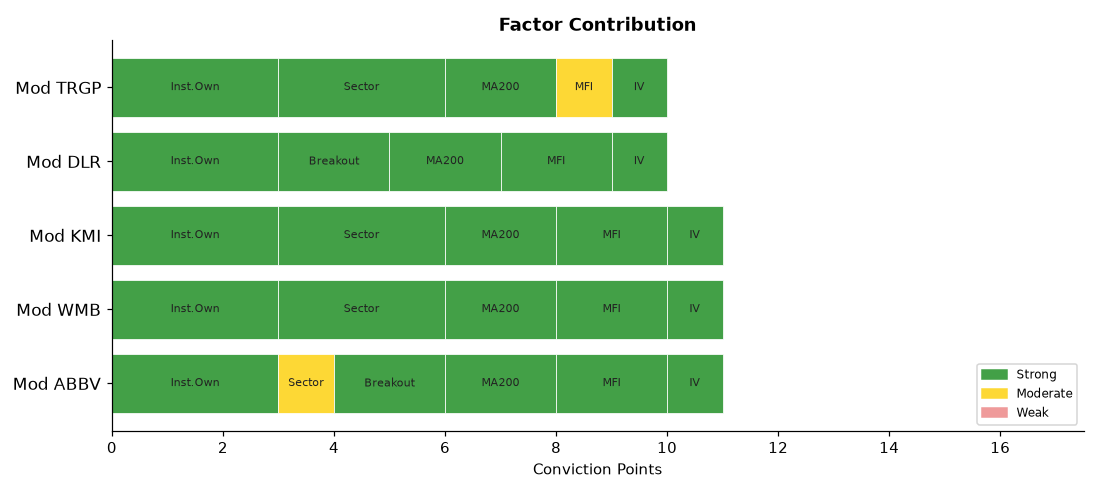
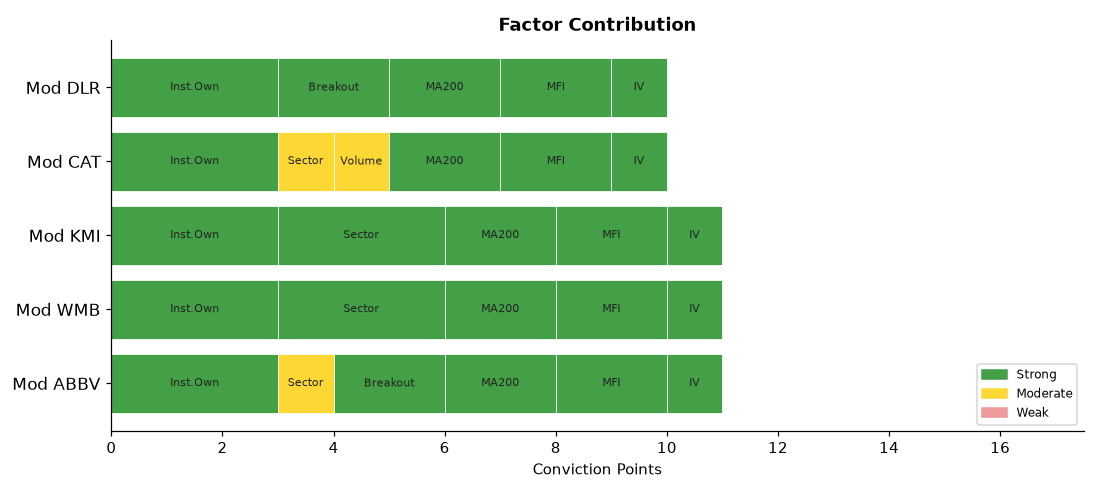
deploy: b7fadf5b06deb90e7ebb92f278722414bdd9750d

diff --git a/index.html b/index.html
@@ -4,7 +4,7 @@
   <meta charset="UTF-8">
   <meta name="viewport" content="width=device-width,initial-scale=1">
   <meta http-equiv="Cache-Control" content="no-cache,no-store,must-revalidate">
-  <title>Stock Breakout Screener — 2026-06-22 20:10</title>
+  <title>Stock Breakout Screener — 2026-06-22 21:29</title>
   <style>
     *{box-sizing:border-box;margin:0;padding:0}
     body{font-family:'Segoe UI',Arial,sans-serif;background:#f0f2f5;
@@ -34,7 +34,7 @@
 
 <div class="hdr">
   <h1>📈 Stock Breakout Screener</h1>
-  <p>Updated: 2026-06-22 20:10 UTC &nbsp;·&nbsp; Phase: After-Hours (4:00–8:00 PM ET) &nbsp;·&nbsp;
+  <p>Updated: 2026-06-22 21:29 UTC &nbsp;·&nbsp; Phase: After-Hours (4:00–8:00 PM ET) &nbsp;·&nbsp;
      129 stocks screened &nbsp;·&nbsp; Top 5 by conviction score</p>
 </div>
 
@@ -69,7 +69,7 @@
             </span>
           </div>
           <ul style="margin:0;padding-left:18px;font-size:13px;
-                     color:#333;line-height:1.8"><li style="margin:5px 0"><span style="background:#ffebee;color:#b71c1c;padding:2px 7px;border-radius:4px;font-size:11px;">❌</span> Volume: <b>1.1× average</b> — Above-average activity</li><li style="margin:5px 0"><span style="background:#e8f5e9;color:#2e7d32;padding:2px 7px;border-radius:4px;font-size:11px;">✅</span> Candle: close <b>$230.10</b> vs open <b>$221.94</b> (+3.7%) — regular market close</li><li style="margin:5px 0"><span style="background:#e8f5e9;color:#2e7d32;padding:2px 7px;border-radius:4px;font-size:11px;">✅</span> 200-Day MA: price <b>$230.10</b> vs MA <b>$216.34</b> — <b>✅ Above</b> long-term trend</li><li style="margin:5px 0"><span style="background:#e8f5e9;color:#2e7d32;padding:2px 7px;border-radius:4px;font-size:11px;">✅</span> Inst. ownership: <b>76.8%</b> · MFI: <b>61.3</b> · Market cap: <b>$406.5B</b></li></ul>
+                     color:#333;line-height:1.8"><li style="margin:5px 0"><span style="background:#ffebee;color:#b71c1c;padding:2px 7px;border-radius:4px;font-size:11px;">❌</span> Volume: <b>1.1× average</b> — Above-average activity</li><li style="margin:5px 0"><span style="background:#e8f5e9;color:#2e7d32;padding:2px 7px;border-radius:4px;font-size:11px;">✅</span> Candle: close <b>$230.01</b> vs open <b>$221.94</b> (+3.6%) — regular market close</li><li style="margin:5px 0"><span style="background:#e8f5e9;color:#2e7d32;padding:2px 7px;border-radius:4px;font-size:11px;">✅</span> 200-Day MA: price <b>$230.01</b> vs MA <b>$216.33</b> — <b>✅ Above</b> long-term trend</li><li style="margin:5px 0"><span style="background:#e8f5e9;color:#2e7d32;padding:2px 7px;border-radius:4px;font-size:11px;">✅</span> Inst. ownership: <b>76.8%</b> · MFI: <b>61.3</b> · Market cap: <b>$406.4B</b></li></ul>
         </div>
         <div style="background:#fff;border:1px solid #ddd;border-radius:10px;
                     padding:16px 20px;margin-bottom:12px;
@@ -86,7 +86,7 @@
             </span>
           </div>
           <ul style="margin:0;padding-left:18px;font-size:13px;
-                     color:#333;line-height:1.8"><li style="margin:5px 0"><span style="background:#ffebee;color:#b71c1c;padding:2px 7px;border-radius:4px;font-size:11px;">❌</span> Volume: <b>1.2× average</b> — Above-average activity</li><li style="margin:5px 0"><span style="background:#ffebee;color:#b71c1c;padding:2px 7px;border-radius:4px;font-size:11px;">❌</span> Candle: close <b>$74.96</b> vs open <b>$72.86</b> (+2.9%) — regular market close</li><li style="margin:5px 0"><span style="background:#e8f5e9;color:#2e7d32;padding:2px 7px;border-radius:4px;font-size:11px;">✅</span> 200-Day MA: price <b>$74.96</b> vs MA <b>$69.94</b> — <b>✅ Above</b> long-term trend</li><li style="margin:5px 0"><span style="background:#e8f5e9;color:#2e7d32;padding:2px 7px;border-radius:4px;font-size:11px;">✅</span> Inst. ownership: <b>89.1%</b> · MFI: <b>71.4</b> · Market cap: <b>$91.7B</b></li></ul>
+                     color:#333;line-height:1.8"><li style="margin:5px 0"><span style="background:#ffebee;color:#b71c1c;padding:2px 7px;border-radius:4px;font-size:11px;">❌</span> Volume: <b>1.2× average</b> — Above-average activity</li><li style="margin:5px 0"><span style="background:#ffebee;color:#b71c1c;padding:2px 7px;border-radius:4px;font-size:11px;">❌</span> Candle: close <b>$74.95</b> vs open <b>$72.86</b> (+2.9%) — regular market close</li><li style="margin:5px 0"><span style="background:#e8f5e9;color:#2e7d32;padding:2px 7px;border-radius:4px;font-size:11px;">✅</span> 200-Day MA: price <b>$74.95</b> vs MA <b>$69.94</b> — <b>✅ Above</b> long-term trend</li><li style="margin:5px 0"><span style="background:#e8f5e9;color:#2e7d32;padding:2px 7px;border-radius:4px;font-size:11px;">✅</span> Inst. ownership: <b>89.1%</b> · MFI: <b>71.4</b> · Market cap: <b>$91.7B</b></li></ul>
         </div>
         <div style="background:#fff;border:1px solid #ddd;border-radius:10px;
                     padding:16px 20px;margin-bottom:12px;
@@ -103,7 +103,7 @@
             </span>
           </div>
           <ul style="margin:0;padding-left:18px;font-size:13px;
-                     color:#333;line-height:1.8"><li style="margin:5px 0"><span style="background:#ffebee;color:#b71c1c;padding:2px 7px;border-radius:4px;font-size:11px;">❌</span> Volume: <b>0.5× average</b> — Above-average activity</li><li style="margin:5px 0"><span style="background:#ffebee;color:#b71c1c;padding:2px 7px;border-radius:4px;font-size:11px;">❌</span> Candle: close <b>$32.24</b> vs open <b>$31.58</b> (+2.1%) — regular market close</li><li style="margin:5px 0"><span style="background:#e8f5e9;color:#2e7d32;padding:2px 7px;border-radius:4px;font-size:11px;">✅</span> 200-Day MA: price <b>$32.24</b> vs MA <b>$31.22</b> — <b>✅ Above</b> long-term trend</li><li style="margin:5px 0"><span style="background:#e8f5e9;color:#2e7d32;padding:2px 7px;border-radius:4px;font-size:11px;">✅</span> Inst. ownership: <b>70.9%</b> · MFI: <b>61.4</b> · Market cap: <b>$71.7B</b></li></ul>
+                     color:#333;line-height:1.8"><li style="margin:5px 0"><span style="background:#ffebee;color:#b71c1c;padding:2px 7px;border-radius:4px;font-size:11px;">❌</span> Volume: <b>0.7× average</b> — Above-average activity</li><li style="margin:5px 0"><span style="background:#ffebee;color:#b71c1c;padding:2px 7px;border-radius:4px;font-size:11px;">❌</span> Candle: close <b>$32.25</b> vs open <b>$31.58</b> (+2.1%) — regular market close</li><li style="margin:5px 0"><span style="background:#e8f5e9;color:#2e7d32;padding:2px 7px;border-radius:4px;font-size:11px;">✅</span> 200-Day MA: price <b>$32.25</b> vs MA <b>$31.22</b> — <b>✅ Above</b> long-term trend</li><li style="margin:5px 0"><span style="background:#e8f5e9;color:#2e7d32;padding:2px 7px;border-radius:4px;font-size:11px;">✅</span> Inst. ownership: <b>70.9%</b> · MFI: <b>62.3</b> · Market cap: <b>$71.8B</b></li></ul>
         </div>
         <div style="background:#fff;border:1px solid #ddd;border-radius:10px;
                     padding:16px 20px;margin-bottom:12px;
@@ -111,7 +111,24 @@
           <div style="display:flex;align-items:center;gap:10px;
                       flex-wrap:wrap;margin-bottom:10px">
             <span style="font-size:22px">🟡</span>
-            <span style="font-size:19px;font-weight:700">4. DLR</span>
+            <span style="font-size:19px;font-weight:700">4. CAT</span>
+            <span style="font-size:12px;color:#666">Industrials</span>
+            <span style="margin-left:auto;background:#1a237e;color:#fff;
+                         padding:3px 12px;border-radius:12px;
+                         font-size:13px;font-weight:600">
+              10/17
+            </span>
+          </div>
+          <ul style="margin:0;padding-left:18px;font-size:13px;
+                     color:#333;line-height:1.8"><li style="margin:5px 0"><span style="background:#fffde7;color:#f57f17;padding:2px 7px;border-radius:4px;font-size:11px;">⚠</span> Volume: <b>1.5× average</b> — Above-average activity</li><li style="margin:5px 0"><span style="background:#ffebee;color:#b71c1c;padding:2px 7px;border-radius:4px;font-size:11px;">❌</span> Candle: close <b>$1022.28</b> vs open <b>$999.28</b> (+2.3%) — regular market close</li><li style="margin:5px 0"><span style="background:#e8f5e9;color:#2e7d32;padding:2px 7px;border-radius:4px;font-size:11px;">✅</span> 200-Day MA: price <b>$1022.28</b> vs MA <b>$763.68</b> — <b>✅ Above</b> long-term trend</li><li style="margin:5px 0"><span style="background:#e8f5e9;color:#2e7d32;padding:2px 7px;border-radius:4px;font-size:11px;">✅</span> Inst. ownership: <b>72.9%</b> · MFI: <b>79.5</b> · Market cap: <b>$470.9B</b></li></ul>
+        </div>
+        <div style="background:#fff;border:1px solid #ddd;border-radius:10px;
+                    padding:16px 20px;margin-bottom:12px;
+                    box-shadow:0 2px 6px rgba(0,0,0,.07)">
+          <div style="display:flex;align-items:center;gap:10px;
+                      flex-wrap:wrap;margin-bottom:10px">
+            <span style="font-size:22px">🟡</span>
+            <span style="font-size:19px;font-weight:700">5. DLR</span>
             <span style="font-size:12px;color:#666">Real Estate</span>
             <span style="margin-left:auto;background:#1a237e;color:#fff;
                          padding:3px 12px;border-radius:12px;
@@ -120,24 +137,7 @@
             </span>
           </div>
           <ul style="margin:0;padding-left:18px;font-size:13px;
-                     color:#333;line-height:1.8"><li style="margin:5px 0"><span style="background:#ffebee;color:#b71c1c;padding:2px 7px;border-radius:4px;font-size:11px;">❌</span> Volume: <b>0.9× average</b> — Above-average activity</li><li style="margin:5px 0"><span style="background:#e8f5e9;color:#2e7d32;padding:2px 7px;border-radius:4px;font-size:11px;">✅</span> Candle: close <b>$195.53</b> vs open <b>$188.64</b> (+3.7%) — regular market close</li><li style="margin:5px 0"><span style="background:#e8f5e9;color:#2e7d32;padding:2px 7px;border-radius:4px;font-size:11px;">✅</span> 200-Day MA: price <b>$195.53</b> vs MA <b>$177.94</b> — <b>✅ Above</b> long-term trend</li><li style="margin:5px 0"><span style="background:#e8f5e9;color:#2e7d32;padding:2px 7px;border-radius:4px;font-size:11px;">✅</span> Inst. ownership: <b>100.7%</b> · MFI: <b>65.3</b> · Market cap: <b>$69.9B</b></li></ul>
-        </div>
-        <div style="background:#fff;border:1px solid #ddd;border-radius:10px;
-                    padding:16px 20px;margin-bottom:12px;
-                    box-shadow:0 2px 6px rgba(0,0,0,.07)">
-          <div style="display:flex;align-items:center;gap:10px;
-                      flex-wrap:wrap;margin-bottom:10px">
-            <span style="font-size:22px">🟡</span>
-            <span style="font-size:19px;font-weight:700">5. TRGP</span>
-            <span style="font-size:12px;color:#666">Energy</span>
-            <span style="margin-left:auto;background:#1a237e;color:#fff;
-                         padding:3px 12px;border-radius:12px;
-                         font-size:13px;font-weight:600">
-              10/17
-            </span>
-          </div>
-          <ul style="margin:0;padding-left:18px;font-size:13px;
-                     color:#333;line-height:1.8"><li style="margin:5px 0"><span style="background:#ffebee;color:#b71c1c;padding:2px 7px;border-radius:4px;font-size:11px;">❌</span> Volume: <b>0.7× average</b> — Above-average activity</li><li style="margin:5px 0"><span style="background:#ffebee;color:#b71c1c;padding:2px 7px;border-radius:4px;font-size:11px;">❌</span> Candle: close <b>$264.52</b> vs open <b>$260.91</b> (+1.4%) — regular market close</li><li style="margin:5px 0"><span style="background:#e8f5e9;color:#2e7d32;padding:2px 7px;border-radius:4px;font-size:11px;">✅</span> 200-Day MA: price <b>$264.52</b> vs MA <b>$231.93</b> — <b>✅ Above</b> long-term trend</li><li style="margin:5px 0"><span style="background:#e8f5e9;color:#2e7d32;padding:2px 7px;border-radius:4px;font-size:11px;">✅</span> Inst. ownership: <b>97.3%</b> · MFI: <b>51.4</b> · Market cap: <b>$56.8B</b></li></ul>
+                     color:#333;line-height:1.8"><li style="margin:5px 0"><span style="background:#ffebee;color:#b71c1c;padding:2px 7px;border-radius:4px;font-size:11px;">❌</span> Volume: <b>1.2× average</b> — Above-average activity</li><li style="margin:5px 0"><span style="background:#e8f5e9;color:#2e7d32;padding:2px 7px;border-radius:4px;font-size:11px;">✅</span> Candle: close <b>$195.54</b> vs open <b>$188.64</b> (+3.7%) — regular market close</li><li style="margin:5px 0"><span style="background:#e8f5e9;color:#2e7d32;padding:2px 7px;border-radius:4px;font-size:11px;">✅</span> 200-Day MA: price <b>$195.54</b> vs MA <b>$177.94</b> — <b>✅ Above</b> long-term trend</li><li style="margin:5px 0"><span style="background:#e8f5e9;color:#2e7d32;padding:2px 7px;border-radius:4px;font-size:11px;">✅</span> Inst. ownership: <b>100.7%</b> · MFI: <b>66.0</b> · Market cap: <b>$69.9B</b></li></ul>
         </div>
 
 
@@ -170,7 +170,7 @@
           <td style="font-weight:700;text-align:left;padding-left:10px">
             🟡 ABBV</td>
           <td style="background:#ffcdd2">1.1×</td>
-          <td style="background:#c8e6c9">+3.7%</td>
+          <td style="background:#c8e6c9">+3.6%</td>
           <td style="background:#c8e6c9">
             ▲ Above</td>
           <td style="background:#c8e6c9">
@@ -179,7 +179,7 @@
             61.3</td>
           <td style="background:#fff9c4">Healthcare</td>
           <td style="background:#c8e6c9">
-            79.0%</td>
+            75.5%</td>
           <td style="background:#ffcdd2">
             N/A</td>
           <td style="font-weight:800;font-size:15px">11/17</td>
@@ -197,7 +197,7 @@
             71.4</td>
           <td style="background:#c8e6c9">Energy</td>
           <td style="background:#c8e6c9">
-            60.6%</td>
+            59.5%</td>
           <td style="background:#ffcdd2">
             N/A</td>
           <td style="font-weight:800;font-size:15px">11/17</td>
@@ -205,53 +205,53 @@
         <tr>
           <td style="font-weight:700;text-align:left;padding-left:10px">
             🟡 KMI</td>
-          <td style="background:#ffcdd2">0.5×</td>
+          <td style="background:#ffcdd2">0.7×</td>
           <td style="background:#ffcdd2">+2.1%</td>
           <td style="background:#c8e6c9">
             ▲ Above</td>
           <td style="background:#c8e6c9">
             70.9%</td>
           <td style="background:#c8e6c9">
-            61.4</td>
+            62.3</td>
           <td style="background:#c8e6c9">Energy</td>
           <td style="background:#c8e6c9">
-            74.6%</td>
+            81.3%</td>
           <td style="background:#ffcdd2">
             N/A</td>
           <td style="font-weight:800;font-size:15px">11/17</td>
         </tr>
         <tr>
           <td style="font-weight:700;text-align:left;padding-left:10px">
-            🟡 DLR</td>
-          <td style="background:#ffcdd2">0.9×</td>
-          <td style="background:#c8e6c9">+3.7%</td>
+            🟡 CAT</td>
+          <td style="background:#fff9c4">1.5×</td>
+          <td style="background:#ffcdd2">+2.3%</td>
           <td style="background:#c8e6c9">
             ▲ Above</td>
           <td style="background:#c8e6c9">
-            100.7%</td>
+            72.9%</td>
           <td style="background:#c8e6c9">
-            65.3</td>
-          <td style="background:#ffcdd2">Real Estate</td>
+            79.5</td>
+          <td style="background:#fff9c4">Industrials</td>
           <td style="background:#c8e6c9">
-            65.1%</td>
+            112.5%</td>
           <td style="background:#ffcdd2">
             N/A</td>
           <td style="font-weight:800;font-size:15px">10/17</td>
         </tr>
         <tr>
           <td style="font-weight:700;text-align:left;padding-left:10px">
-            🟡 TRGP</td>
-          <td style="background:#ffcdd2">0.7×</td>
-          <td style="background:#ffcdd2">+1.4%</td>
+            🟡 DLR</td>
+          <td style="background:#ffcdd2">1.2×</td>
+          <td style="background:#c8e6c9">+3.7%</td>
           <td style="background:#c8e6c9">
             ▲ Above</td>
           <td style="background:#c8e6c9">
-            97.3%</td>
-          <td style="background:#fff9c4">
-            51.4</td>
-          <td style="background:#c8e6c9">Energy</td>
+            100.7%</td>
           <td style="background:#c8e6c9">
-            26.6%</td>
+            66.0</td>
+          <td style="background:#ffcdd2">Real Estate</td>
+          <td style="background:#c8e6c9">
+            71.0%</td>
           <td style="background:#ffcdd2">
             N/A</td>
           <td style="font-weight:800;font-size:15px">10/17</td>
@@ -278,32 +278,32 @@
         <tr>
           <td style="text-align:left;padding-left:10px;font-weight:600">
             #1 Energy</td>
-          <td style="background:#e8f5e9;color:#2e7d32;font-weight:700">+0.56%</td>
+          <td style="background:#e8f5e9;color:#2e7d32;font-weight:700">+0.54%</td>
         </tr>
         <tr>
           <td style="text-align:left;padding-left:10px;font-weight:600">
             #2 Industrials</td>
-          <td style="background:#e8f5e9;color:#2e7d32;font-weight:700">+0.48%</td>
+          <td style="background:#e8f5e9;color:#2e7d32;font-weight:700">+0.49%</td>
         </tr>
         <tr>
           <td style="text-align:left;padding-left:10px;font-weight:600">
             #3 Healthcare</td>
-          <td style="background:#e8f5e9;color:#2e7d32;font-weight:700">+0.45%</td>
+          <td style="background:#e8f5e9;color:#2e7d32;font-weight:700">+0.44%</td>
         </tr>
         <tr>
           <td style="text-align:left;padding-left:10px;font-weight:600">
-            #4 Real Estate</td>
+            #4 Technology</td>
+          <td style="background:#e8f5e9;color:#2e7d32;font-weight:700">+0.37%</td>
+        </tr>
+        <tr>
+          <td style="text-align:left;padding-left:10px;font-weight:600">
+            #5 Real Estate</td>
           <td style="background:#e8f5e9;color:#2e7d32;font-weight:700">+0.36%</td>
         </tr>
         <tr>
           <td style="text-align:left;padding-left:10px;font-weight:600">
-            #5 Technology</td>
-          <td style="background:#e8f5e9;color:#2e7d32;font-weight:700">+0.34%</td>
-        </tr>
-        <tr>
-          <td style="text-align:left;padding-left:10px;font-weight:600">
             #6 Financials</td>
-          <td style="background:#e8f5e9;color:#2e7d32;font-weight:700">+0.21%</td>
+          <td style="background:#e8f5e9;color:#2e7d32;font-weight:700">+0.24%</td>
         </tr>
         <tr>
           <td style="text-align:left;padding-left:10px;font-weight:600">
@@ -313,17 +313,17 @@
         <tr>
           <td style="text-align:left;padding-left:10px;font-weight:600">
             #8 Materials</td>
-          <td style="background:#ffebee;color:#c62828;font-weight:700">-0.38%</td>
+          <td style="background:#ffebee;color:#c62828;font-weight:700">-0.37%</td>
         </tr>
         <tr>
           <td style="text-align:left;padding-left:10px;font-weight:600">
             #9 Consumer Stpl</td>
-          <td style="background:#ffebee;color:#c62828;font-weight:700">-1.36%</td>
+          <td style="background:#ffebee;color:#c62828;font-weight:700">-1.34%</td>
         </tr>
         <tr>
           <td style="text-align:left;padding-left:10px;font-weight:600">
             #10 Consumer Disc</td>
-          <td style="background:#ffebee;color:#c62828;font-weight:700">-1.93%</td>
+          <td style="background:#ffebee;color:#c62828;font-weight:700">-1.89%</td>
         </tr>
         <tr>
           <td style="text-align:left;padding-left:10px;font-weight:600">
@@ -367,7 +367,7 @@
         <li><b>Scoring weights:</b>
             Inst.Own(3) · Sector(3) · Volume(2) · Breakout(2) ·
             MA200(2) · MFI(2) · History(2) · IV(1) = 17pts max</li>
-        <li><b>Run time:</b> 2026-06-22 20:10 UTC — Market phase: After-Hours (4:00–8:00 PM ET)</li>
+        <li><b>Run time:</b> 2026-06-22 21:29 UTC — Market phase: After-Hours (4:00–8:00 PM ET)</li>
       </ul>
     </div>
 
